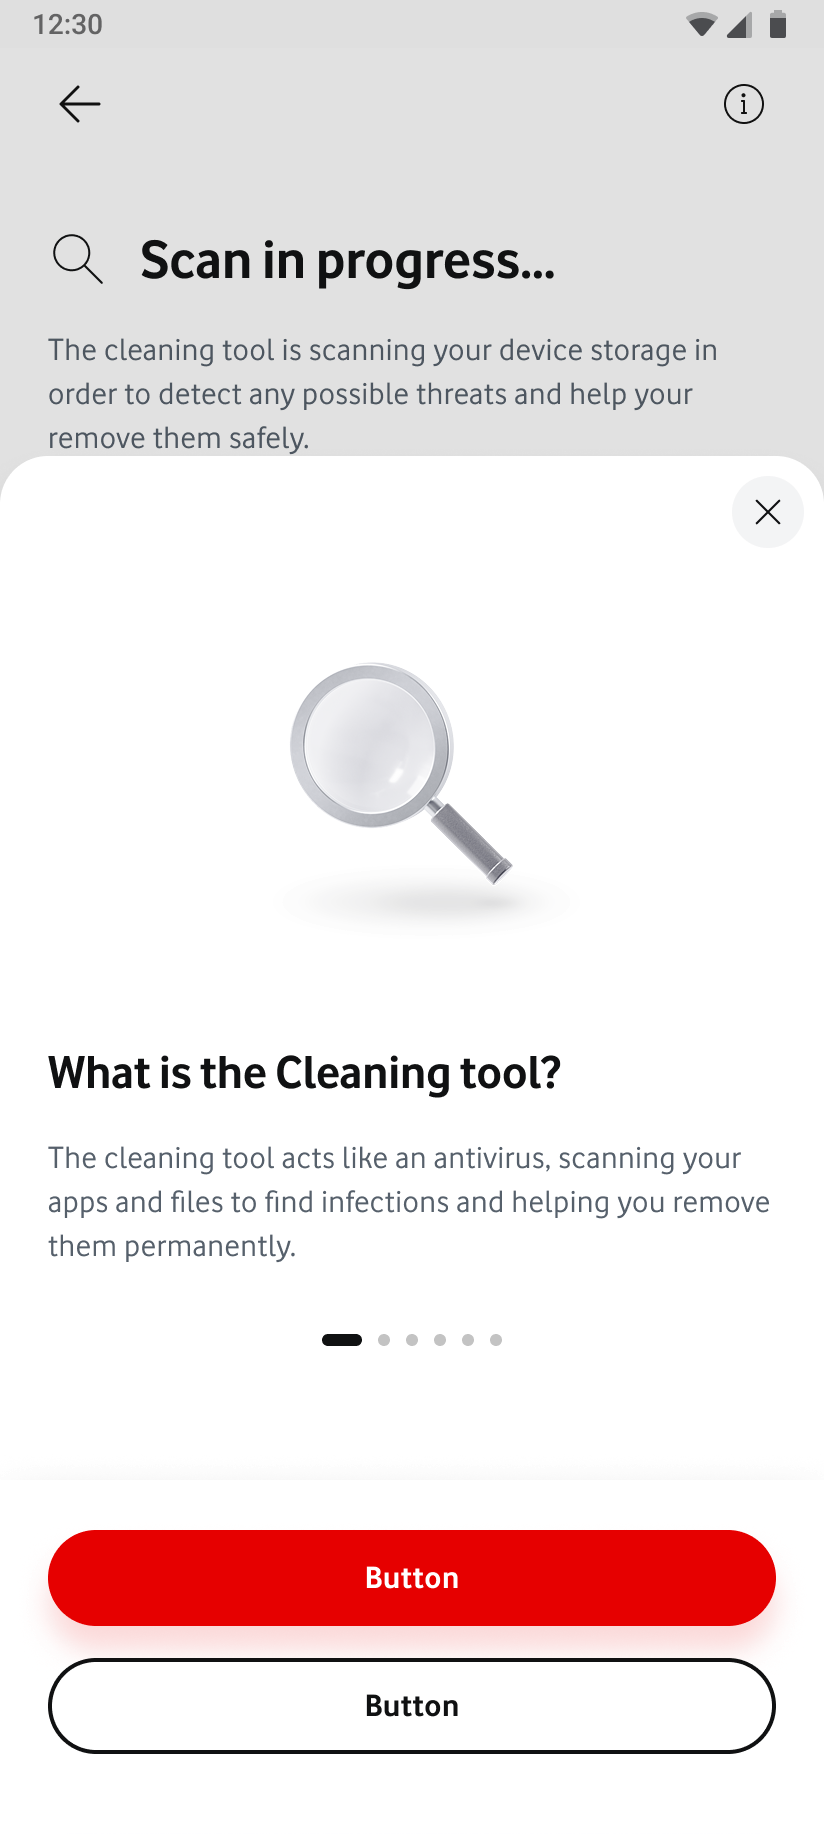
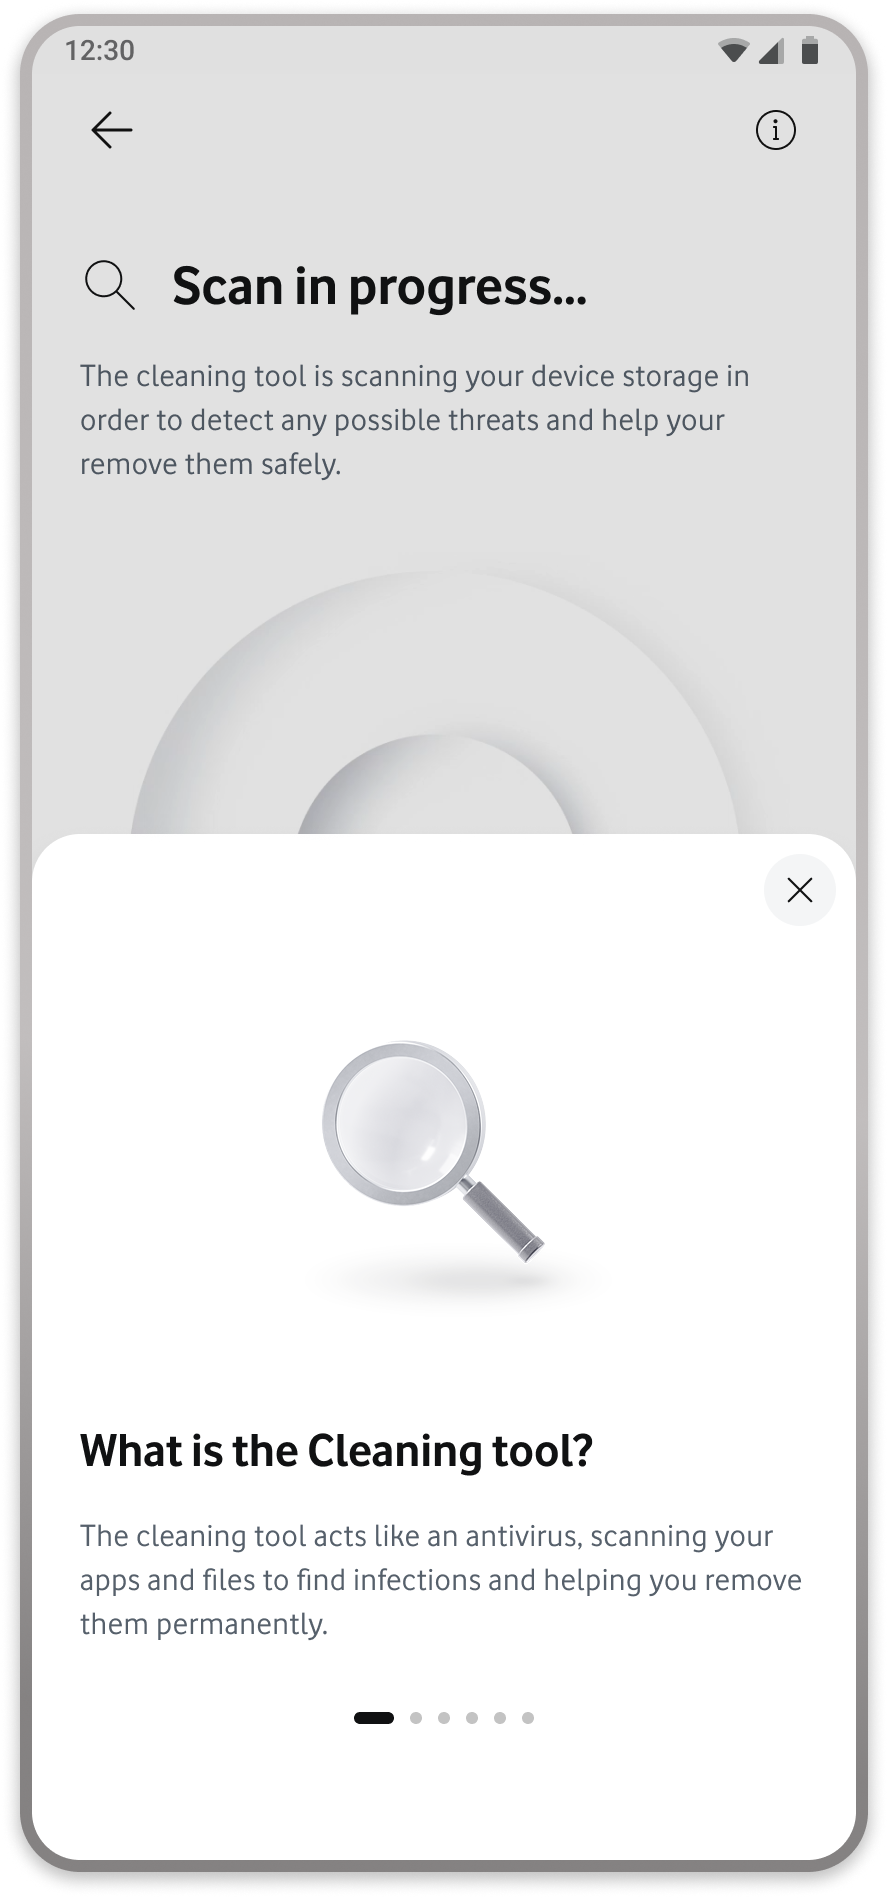
img upd

diff --git a/vodafone-secure-net.html b/vodafone-secure-net.html
@@ -277,7 +277,7 @@
         <p>The Cleaning Tool was the exception: scan device, find threats, remove them, see result. But almost nobody finished the flow.</p>
         <p><strong>Drop-off rate: 60%.</strong></p>
         <figure class="case-media reveal">
-          <img src="assets/vodafone-cleaning-tool/secure-net-dashboard.png" alt="Secure Net Android dashboard showing Cleaning Tool among security modules." width="824" height="1834" loading="lazy" decoding="async" />
+          <img src="assets/vodafone-cleaning-tool/secure-net-dashboard.png" alt="Secure Net Android dashboard showing Cleaning Tool among security modules." width="412" height="917" loading="lazy" decoding="async" style="max-width:50%;margin-inline:auto;" />
           <figcaption>The Tool sits inside the Secure Net dashboard — one of the few surfaces where users expect visible motion after they tap.</figcaption>
         </figure>
       </div>
@@ -314,12 +314,12 @@
         <p>Execution screens split “work in flight”, “what we found”, and “what happened next” into distinct visual chapters instead of recycled layouts.</p>
         <div class="case-media-grid">
           <figure class="case-media reveal">
-            <img src="assets/vodafone-cleaning-tool/cleaning-device-progress.png" alt="Cleaning Tool screen — active cleaning with progress copy." width="824" height="1834" loading="lazy" decoding="async" />
-            <figcaption>Removal phase with explicit progress language — users finally saw the machine working for them.</figcaption>
-          </figure>
-          <figure class="case-media reveal">
             <img src="assets/vodafone-cleaning-tool/scan-results-selection.png" alt="Scan results listing infections with Clean selected items control." width="824" height="1834" loading="lazy" decoding="async" />
             <figcaption>Scan results as an actionable ledger — threats named, selection surfaced, primary action anchored.</figcaption>
+          </figure>
+          <figure class="case-media reveal">
+            <img src="assets/vodafone-cleaning-tool/cleaning-device-progress.png" alt="Cleaning Tool screen — active cleaning with progress copy." width="824" height="1834" loading="lazy" decoding="async" />
+            <figcaption>Removal phase with explicit progress language — users finally saw the machine working for them.</figcaption>
           </figure>
         </div>
         <figure class="case-media reveal">
